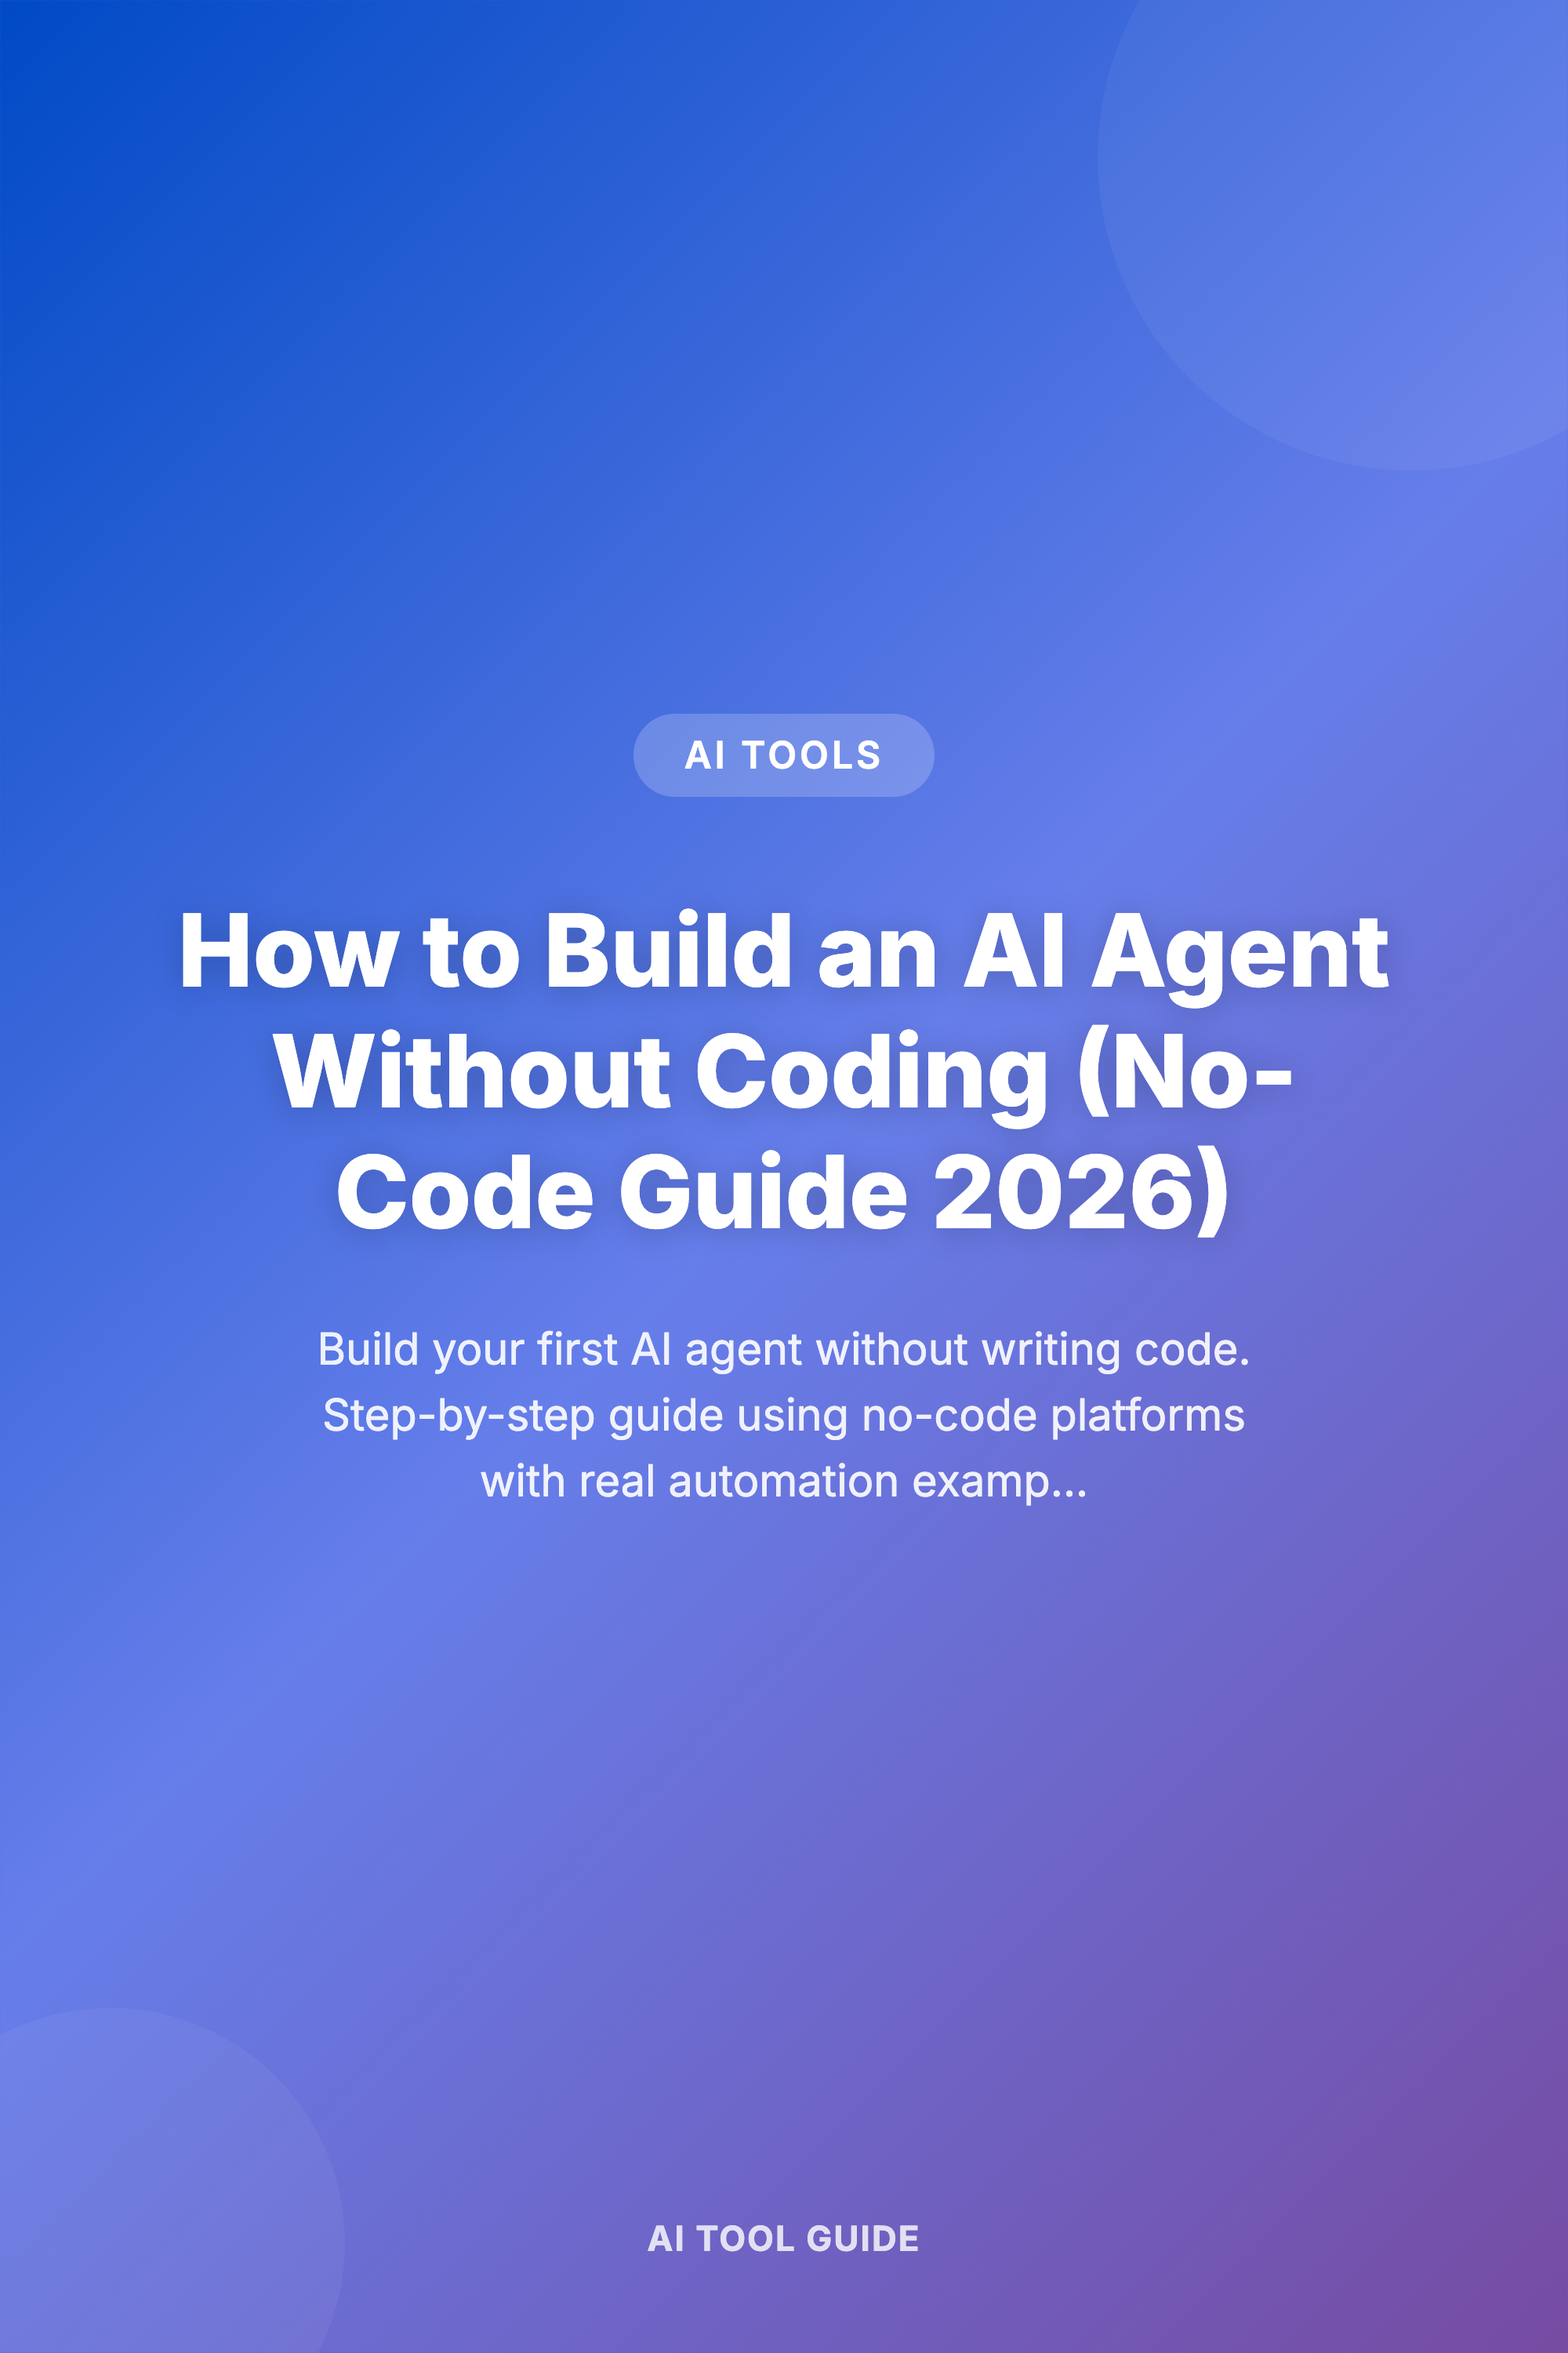
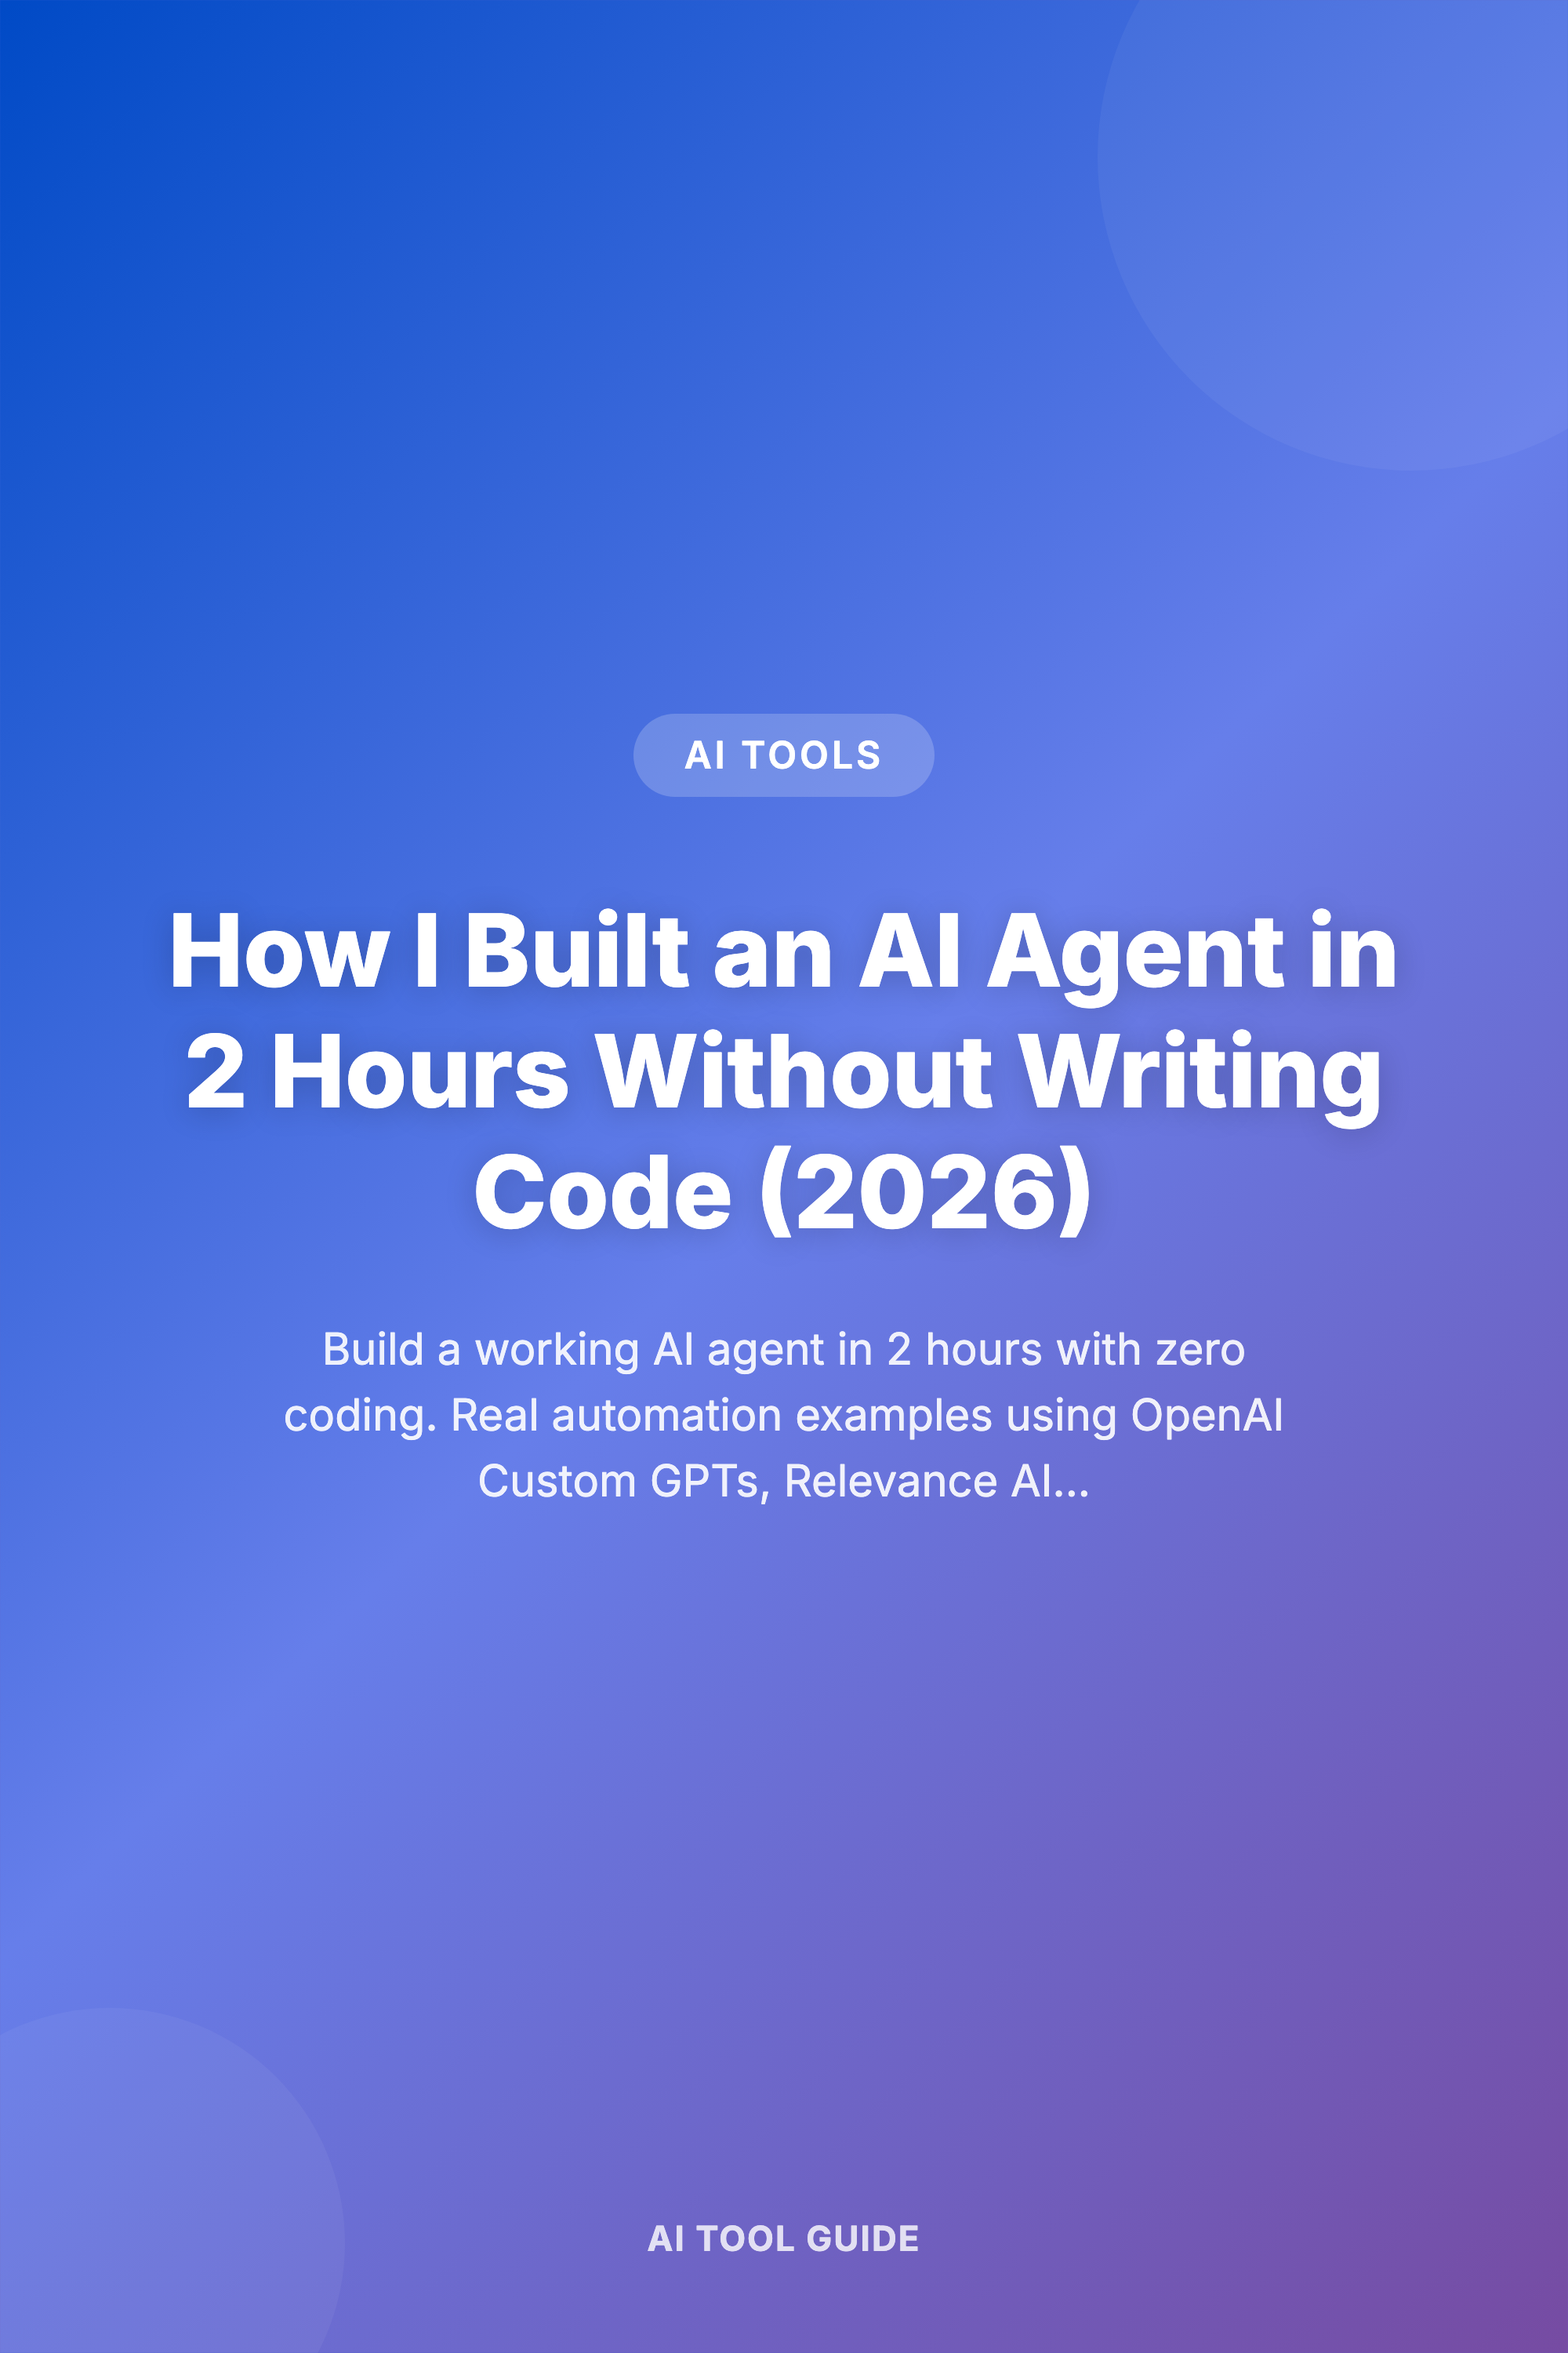
fix: improve pin generation scripts and add missing pins for 19 new articles
- Fix gen-pins.py output path bug (redundant .png→.html replace)
- Fix screenshot-pins.cjs: auto-detect Chrome path across platforms, reuse browser for batch (was spinning new browser per pin, causing memory exhaustion)
- Add gen-pins.sh as unified entry point
- Regenerate pins for all 48 articles to include 19 missing

Changed region(s): [[0.093, 0.372, 0.899, 0.527], [0.186, 0.558, 0.806, 0.651]]

diff --git a/scripts/gen-pins.py b/scripts/gen-pins.py
@@ -64,8 +64,7 @@ def generate_pin(article, template_path, output_path):
     html = html.replace('>Article description goes here<', f'>{desc}<')
     html = html.replace('>AI TOOLS<', f'>{badge}<')
 
-    tmp_html = output_path.replace('.png', '.html')
-    with open(tmp_html, 'w') as f:
+    with open(output_path, 'w') as f:
         f.write(html)
 
     print(f"  Generated: {output_path}")
